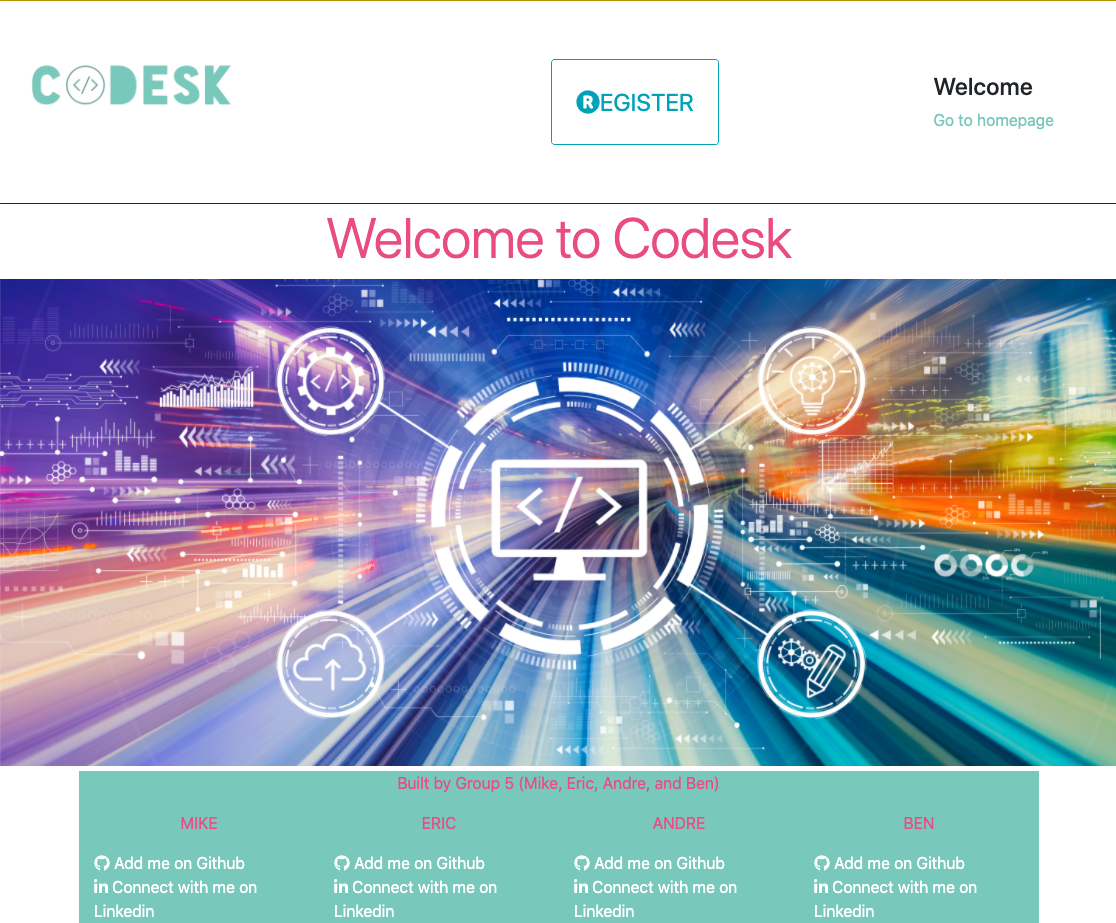
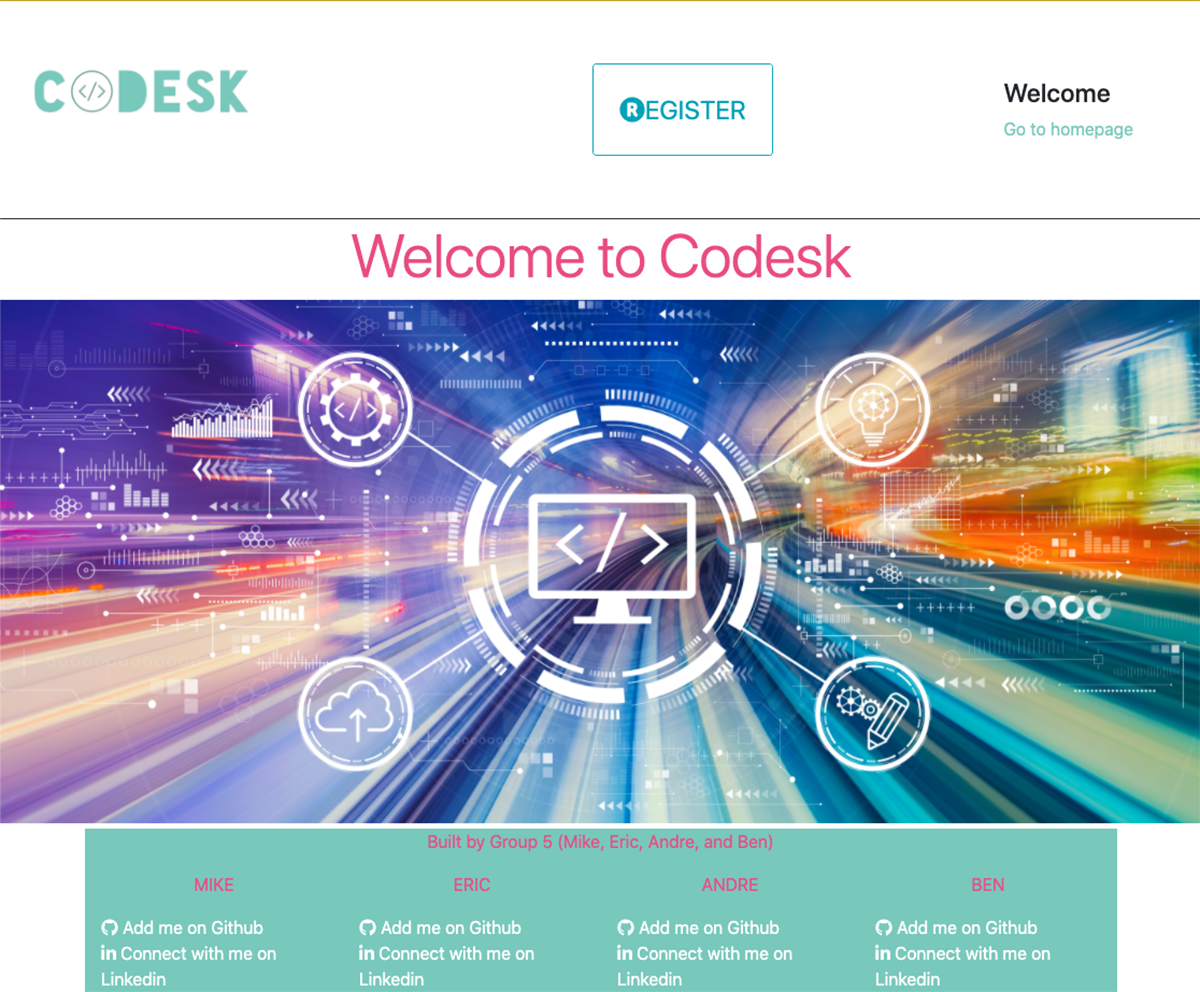
fixed model issue

diff --git a/src/component/Projects/projects.jsx b/src/component/Projects/projects.jsx
@@ -141,7 +141,8 @@ export default class Projects extends React.Component {
 							<div className="modal-bottom">
 							<a
 									href="https://crud-crm-project-2.herokuapp.com/crm"
-									target="_blank">
+									target="_blank"
+									rel="noopener noreferrer">
 									<h3>Check out my CRM</h3>
 								</a>
 								<p
@@ -177,7 +178,6 @@ export default class Projects extends React.Component {
 							<div className="modal-description">
 								<div className="modal-paragraph">
 								A team built full-stack MERN website, functional and interactive.
-								We wanted to build an app that would eventually create a community for budding coders to store, retrieve, search, comment, and share blocks of code. The app borders between an educational assistant and code management system.
 								The objective of Codesk is to simplify the life programmers by organizing, sharing, understanding, and discussing any past, present or future code submitted to the app.
 								The Codesk app gives you the opportunity to learn by reviewing other users code and making it easy to access past submissions.
 								</div>
@@ -202,7 +202,8 @@ export default class Projects extends React.Component {
 							<div className="modal-bottom">
 								<a
 									href="https://group-5-codesk.herokuapp.com/"
-									target="_blank">
+									target="_blank" 
+									rel="noopener noreferrer">
 									<h3>Save your code in Codesk today!</h3>
 								</a>
 								<p
@@ -253,7 +254,7 @@ export default class Projects extends React.Component {
 							<br/>
 							<div className="modal-bottom">
 								<a href="https://glouton-2020.github.io/" 
-								target="_blank">
+								target="_blank" rel="noopener noreferrer">
 									<h3>How many rounds can you last?</h3>
 								</a>
 								<p

diff --git a/src/component/Navbar/navbar.jsx b/src/component/Navbar/navbar.jsx
@@ -57,7 +57,7 @@ class Navbar extends React.Component {
 					id="navbar"
 					className="navbar navbar-expand-lg navbar-light bg-light">
 					<div className="container">
-						<a
+						<a href
 							className="home-style navbar-brand"
 							onClick={() => {
 								window.scrollTo({
@@ -81,21 +81,21 @@ class Navbar extends React.Component {
 							className="collapse navbar-collapse"
 							id="navbarNavAltMarkup">
 							<div className="navbar-nav">
-								<a
+								<a href
 									onClick={() => {
 										this.scrolling(this.about);
 									}}
 									className="btn-style nav-item nav-link">
 									About
 								</a>
-								<a
+								<a href
 									onClick={() => {
 										this.scrolling(this.projects);
 									}}
 									className="btn-style nav-item nav-link">
 									Projects
 								</a>
-								<a
+								<a href
 									onClick={() => {
 										this.scrolling(this.contact);
 									}}

diff --git a/src/styles/index.scss b/src/styles/index.scss
@@ -319,9 +319,9 @@
 }
 
 .modal-card {
-    display: fixed;
-    position: none;
-    width: 45%;
+    display: none;
+    position: absolute;
+    width: 55%;
     top: 10%;
     left: 50%;
     height: 85%;
@@ -331,10 +331,14 @@
     -ms-transform: translate(-50%,-10%);
 }
 
-.visual video,.visual img {
-    width: 100%;
+.visual img {
+    // width: 30%;
     height: auto;
     border-bottom: 2px solid black;
+    display: block;
+    margin-left: auto;
+    margin-right: auto;
+    width: 40%;
 }
 
 .modal-info {

diff --git a/src/component/About/about.jsx b/src/component/About/about.jsx
@@ -37,7 +37,7 @@ export default class About extends React.Component {
 							"col-6 col-sm-6 col-md-3 " + this.props.fadeInRight
 						}>
 						<img src={""} alt=""/>
-						<h4>...update required</h4>
+						<h4>...Updates Pending</h4>
 					</div>
 				</div>
 
